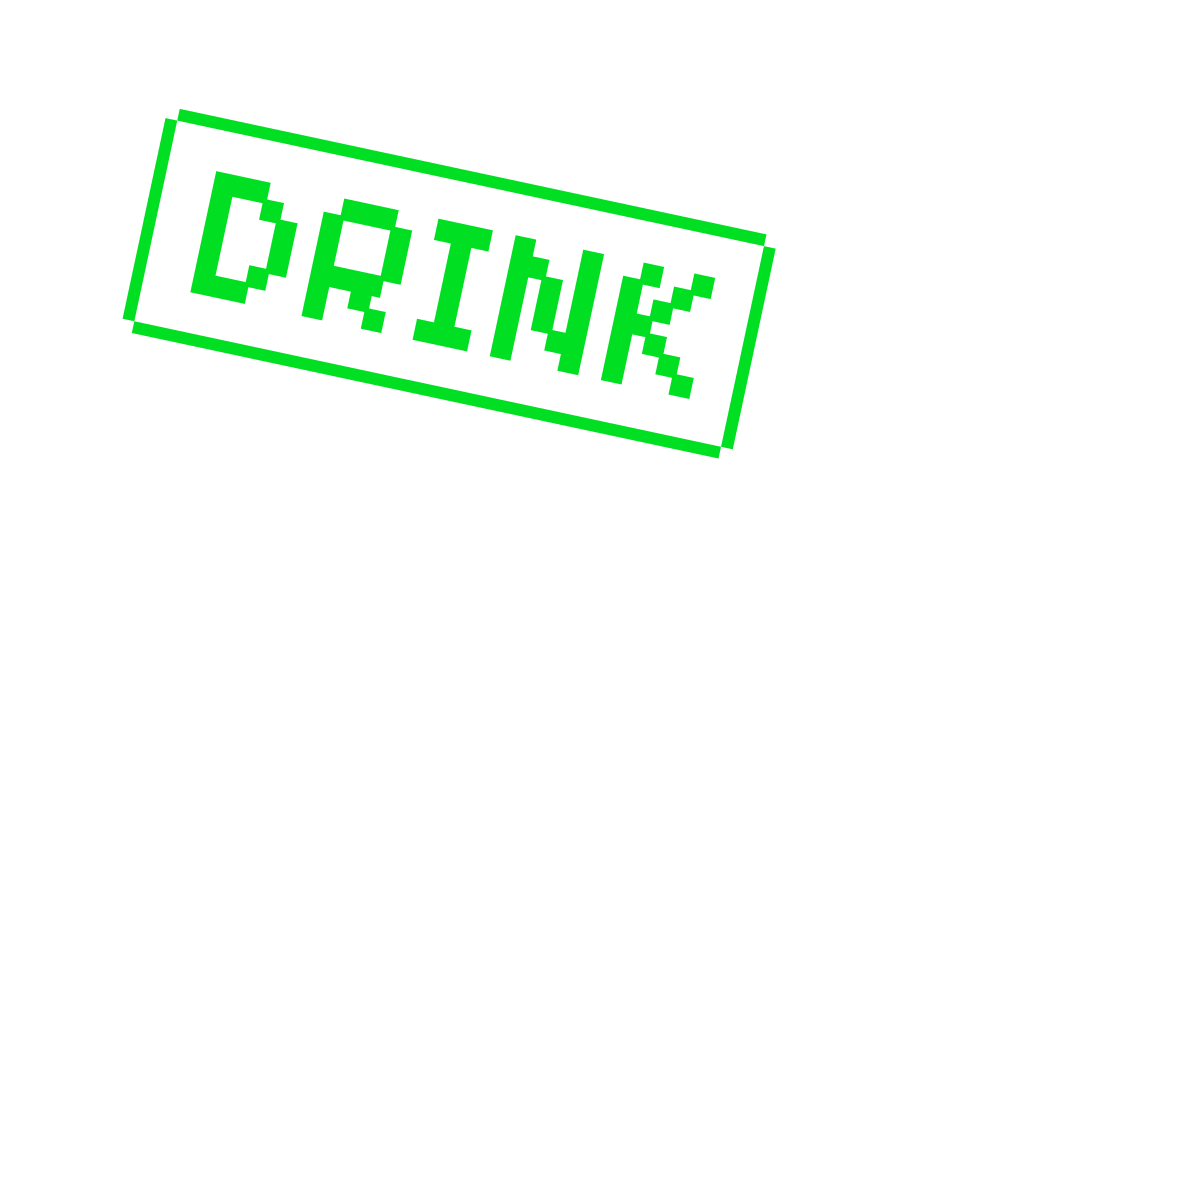
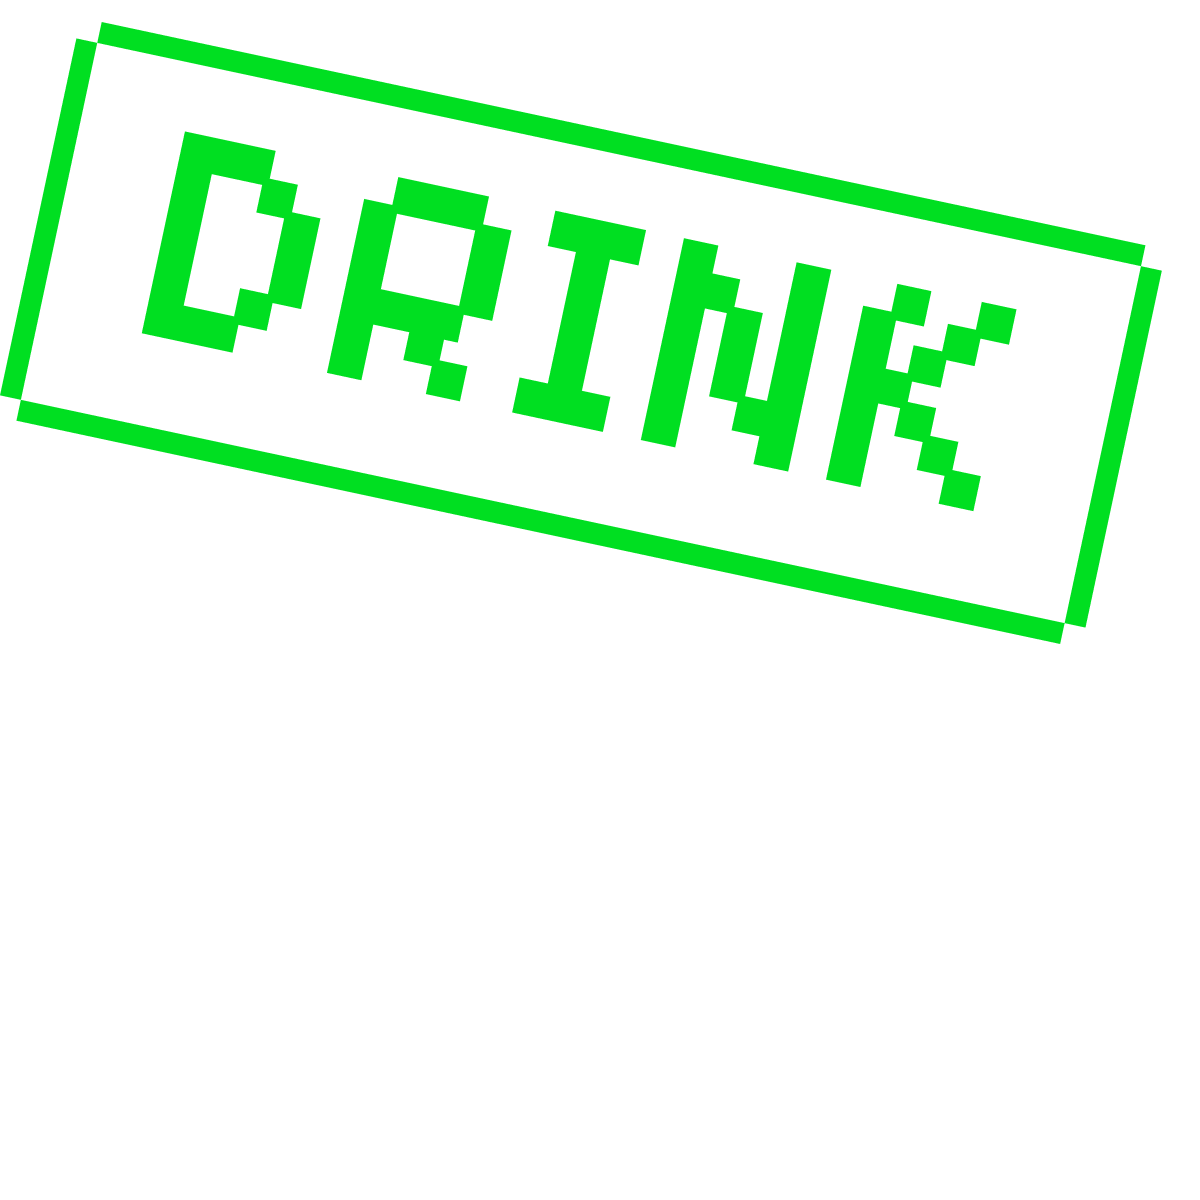
fix images drink pass

Changed region(s): [[0.0, 0.0, 0.9867, 0.555]]

diff --git a/src/components/SwipeCard.tsx b/src/components/SwipeCard.tsx
@@ -441,16 +441,16 @@ const SwipeCardInner = forwardRef<SwipeCardHandle, Props>(function SwipeCardInne
       {/* like/nope overlays */}
       <img
         data-overlay="pass"
-        src="/images/pass.png"
+        src="/public/images/pass.png"
         alt="pass"
         className="no-drag"
         draggable={false}
         style={{
           position: "absolute",
-          top: 12,
-          left: 12,
+          top: 60,
+          right: 80,
           // responsive stamp size, not full width
-          width: "clamp(84px, 34%, 160px)",
+          width: "300px",
           height: "auto",
           // animate via CSS variable
           opacity: "var(--nope, 0)",
@@ -466,15 +466,15 @@ const SwipeCardInner = forwardRef<SwipeCardHandle, Props>(function SwipeCardInne
         }}
       />
       <img
-        src="/images/drink.png"
+        src="/public/images/drink.png"
         alt="drink"
         draggable={false}
         className="no-drag"
         style={{
           position: "absolute",
-          top: 12,
-          right: 12,
-          width: "clamp(84px, 34%, 160px)",
+          top: 80,
+          left: 80,
+          width: "300px",
           height: "auto",
           opacity: "var(--like, 0)",
           transform:
